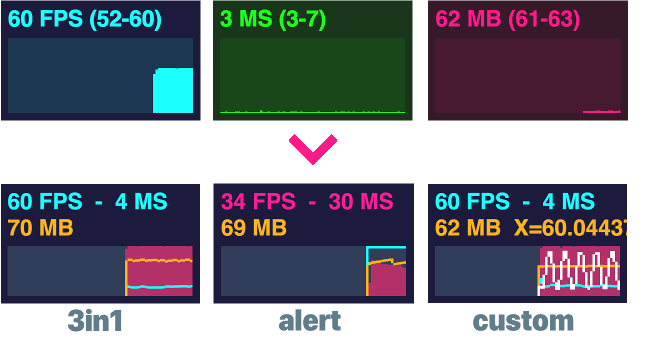
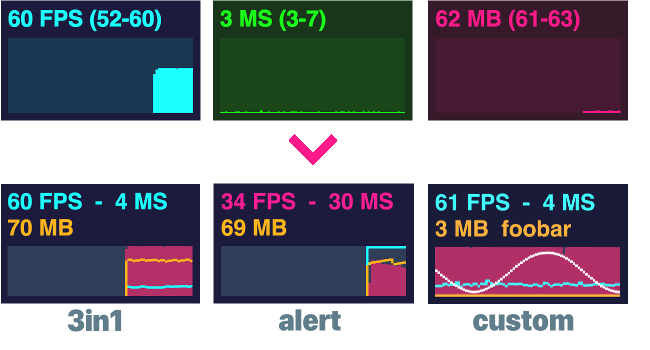
Change argument to object

Changed region(s): [[0.6462, 0.6286, 0.9846, 0.8571], [0.6462, 0.5429, 0.9231, 0.6]]

diff --git a/build/stats.js b/build/stats.js
@@ -9,11 +9,16 @@
  * @author Drecom Co.,Ltd. / http://www.drecom.co.jp/
  */
 
-var Stats = function (maxFPS, maxMem, customGraphConf) {
+var Stats = function Stats(_ref) {
+	var _ref$maxFPS = _ref.maxFPS,
+	    maxFPS = _ref$maxFPS === undefined ? 60 : _ref$maxFPS,
+	    _ref$maxMem = _ref.maxMem,
+	    maxMem = _ref$maxMem === undefined ? 100 : _ref$maxMem,
+	    customGraphConf = _ref.customGraphConf,
+	    _ref$drawInterval = _ref.drawInterval,
+	    drawInterval = _ref$drawInterval === undefined ? 1000 : _ref$drawInterval;
 
-	if(maxFPS == undefined) maxFPS = 60;
-	if(maxMem == undefined) maxMem = 100;
-	
+
 	// Determine whether JavaScript heap can be obtained.
 	var canReadMem = false;
 	if (self.performance && self.performance.memory && self.performance.memory.usedJSHeapSize != self.performance.memory.usedJSHeapSize) {
@@ -21,65 +26,74 @@ var Stats = function (maxFPS, maxMem, customGraphConf) {
 	}
 
 	var margedCustomGraphConf = [];
-	if(canReadMem){
+	if (canReadMem) {
 		margedCustomGraphConf.push({
 			color: '#fa0',
-			max: maxMem,
+			max: maxMem
 		});
 	}
 
-	if(customGraphConf && customGraphConf instanceof Array){
+	if (customGraphConf && customGraphConf instanceof Array) {
 		margedCustomGraphConf = margedCustomGraphConf.concat(customGraphConf);
 	}
 
-	var panel = new FpsPanel( maxFPS, margedCustomGraphConf );
+	var panel = new FpsPanel(maxFPS, margedCustomGraphConf);
 
-	var beginTime = ( performance || Date ).now(), prevTime = beginTime, frames = 0, mem = 0, maxTime = 0;
+	var beginTime = (performance || Date).now(),
+	    prevTime = beginTime,
+	    frames = 0,
+	    mem = 0,
+	    maxTime = 0;
 
 	var customText = "";
 
 	return {
 		dom: panel.dom,
-		getFps: function() { return panel.getFps() },
-		getMs: function() { return panel.getMs() },
-		getMem: function() { return mem },
+		getFps: function getFps() {
+			return panel.getFps();
+		},
+		getMs: function getMs() {
+			return panel.getMs();
+		},
+		getMem: function getMem() {
+			return mem;
+		},
 
-		setText: function (text) {
+		setText: function setText(text) {
 			customText = text;
 		},
 
-		begin: function () {
+		begin: function begin() {
 
-			beginTime = ( performance || Date ).now();
-
+			beginTime = (performance || Date).now();
 		},
 
-		end: function (customGraphValue) {
+		end: function end(customGraphValue) {
 
-			frames ++;
+			frames++;
 
-			var time = ( performance || Date ).now();
+			var time = (performance || Date).now();
 
 			var nowTime = time - beginTime;
-			if(maxTime < nowTime){
+			if (maxTime < nowTime) {
 				maxTime = nowTime;
 			}
 
-			if ( time >= prevTime + 1000 ) {
+			if (time >= prevTime + drawInterval) {
 
 				var margedCustomGraphValue = [];
 				var text = customText;
 
-				if(canReadMem){
+				if (canReadMem) {
 					mem = window.performance.memory.usedJSHeapSize / 1048576;
 					margedCustomGraphValue.push(mem);
 					text = Math.round(mem) + ' MB  ' + customText;
 				}
-				if(customGraphValue && customGraphValue instanceof Array){
+				if (customGraphValue && customGraphValue instanceof Array) {
 					margedCustomGraphValue = margedCustomGraphValue.concat(customGraphValue);
 				}
 
-				panel.update( ( frames * 1000 ) / ( time - prevTime ), maxTime, margedCustomGraphValue, text );
+				panel.update(frames * 1000 / (time - prevTime), maxTime, margedCustomGraphValue, text);
 
 				prevTime = time;
 				frames = 0;
@@ -87,40 +101,41 @@ var Stats = function (maxFPS, maxMem, customGraphConf) {
 			}
 
 			return time;
-
 		},
 
-		update: function (customGraphValue) {
+		update: function update(customGraphValue) {
 
 			beginTime = this.end(customGraphValue);
-
-		},
+		}
 	};
-
 };
 
 // A class that displays passed data in a graph.
-var FpsPanel = function (maxFPS, customGraphConf) {
+var FpsPanel = function FpsPanel(maxFPS, customGraphConf) {
 
 	var MAX_FPS = maxFPS,
-			MAX_MS = 1000 / MAX_FPS,
-			ALERT_MS = 1000 / MAX_FPS * 0.6;
+	    MAX_MS = 1000 / MAX_FPS,
+	    ALERT_MS = 1000 / MAX_FPS * 0.6;
 
-	var PR = Math.round( window.devicePixelRatio || 1 ) * 2;
-	var WIDTH = 80 * PR, HEIGHT = 48 * PR,
-			TEXT_X = 3 * PR, TEXT_Y = 2 * PR,
-			GRAPH_X = 3 * PR, GRAPH_Y = 25 * PR,
-			GRAPH_WIDTH = 74 * PR, GRAPH_HEIGHT = 20 * PR;
+	var PR = Math.round(window.devicePixelRatio || 1) * 2;
+	var WIDTH = 80 * PR,
+	    HEIGHT = 48 * PR,
+	    TEXT_X = 3 * PR,
+	    TEXT_Y = 2 * PR,
+	    GRAPH_X = 3 * PR,
+	    GRAPH_Y = 25 * PR,
+	    GRAPH_WIDTH = 74 * PR,
+	    GRAPH_HEIGHT = 20 * PR;
 	var CUSTOM_TEXT_Y = GRAPH_Y / 2;
 
 	var FRAME_COLOR = '#002',
-			GRAPH_COLOR = '#124',
-			FPS_COLOR = '#a15',
-			MS_COLOR = '#0ff',
-			NORMAL_TEXT_COLOR = '#0ff',
-			ALERT_TEXT_COLOR = '#f08',
-			CUSTOM_TEXT_COLOR = '#fa0';
-	
+	    GRAPH_COLOR = '#124',
+	    FPS_COLOR = '#a15',
+	    MS_COLOR = '#0ff',
+	    NORMAL_TEXT_COLOR = '#0ff',
+	    ALERT_TEXT_COLOR = '#f08',
+	    CUSTOM_TEXT_COLOR = '#fa0';
+
 	var lastFps = 0;
 
 	var lastMs = 0;
@@ -128,42 +143,42 @@ var FpsPanel = function (maxFPS, customGraphConf) {
 
 	var customGraphLength = 0;
 	var customGraphLastY = [];
-	if(customGraphConf && customGraphConf instanceof Array){
+	if (customGraphConf && customGraphConf instanceof Array) {
 		customGraphLength = customGraphConf.length;
 		for (var i = 0; i < customGraphLength; i++) {
 			customGraphLastY.push(GRAPH_HEIGHT);
 		}
 	}
 
-	var container = document.createElement( 'div' );
+	var container = document.createElement('div');
 	container.style.cssText = 'position:fixed;top:0;left:0;opacity:0.9;z-index:10000';
-	var canvas = document.createElement( 'canvas' );
+	var canvas = document.createElement('canvas');
 	canvas.width = WIDTH;
 	canvas.height = HEIGHT;
-	container.appendChild( canvas );
+	container.appendChild(canvas);
 	canvas.style.cssText = 'width:80px;height:48px';
-	var context = canvas.getContext( '2d' );
-	context.font = 'bold ' + ( 9 * PR ) + 'px Helvetica,Arial,sans-serif';
+	var context = canvas.getContext('2d');
+	context.font = 'bold ' + 9 * PR + 'px Helvetica,Arial,sans-serif';
 	context.textBaseline = 'top';
-	
-	context.fillStyle = FRAME_COLOR;
-	context.fillRect( 0, 0, WIDTH, HEIGHT );
-	context.fillStyle = GRAPH_COLOR;
-	context.fillRect( GRAPH_X, GRAPH_Y, GRAPH_WIDTH, GRAPH_HEIGHT );
 
-	var drawLineGraph = function (color, maxValue, newValue, lastY) {
+	context.fillStyle = FRAME_COLOR;
+	context.fillRect(0, 0, WIDTH, HEIGHT);
+	context.fillStyle = GRAPH_COLOR;
+	context.fillRect(GRAPH_X, GRAPH_Y, GRAPH_WIDTH, GRAPH_HEIGHT);
+
+	var drawLineGraph = function drawLineGraph(color, maxValue, newValue, lastY) {
 		context.fillStyle = color;
-		var newY = Math.round( ( 1 - ( newValue / maxValue ) ) * GRAPH_HEIGHT);
-		if(GRAPH_HEIGHT - PR < newY) {
+		var newY = Math.round((1 - newValue / maxValue) * GRAPH_HEIGHT);
+		if (GRAPH_HEIGHT - PR < newY) {
 			newY = GRAPH_HEIGHT - PR;
-		}else if(newY < 0){
+		} else if (newY < 0) {
 			newY = 0;
 		}
 		var head = Math.min(newY, lastY);
 		var bottom = Math.max(newY, lastY);
 		var height = bottom - head;
 		if (height < PR) height = PR;
-		context.fillRect( GRAPH_X + GRAPH_WIDTH - PR, GRAPH_Y + head, PR, height );
+		context.fillRect(GRAPH_X + GRAPH_WIDTH - PR, GRAPH_Y + head, PR, height);
 		return newY;
 	};
 
@@ -171,41 +186,45 @@ var FpsPanel = function (maxFPS, customGraphConf) {
 
 		dom: container,
 
-		getFps: function() { return lastFps },
-		getMs: function() { return lastMs },
-		
-		update: function ( fps, ms, customGraphValue, customText ) {
+		getFps: function getFps() {
+			return lastFps;
+		},
+		getMs: function getMs() {
+			return lastMs;
+		},
+
+		update: function update(fps, ms, customGraphValue, customText) {
 			lastFps = fps;
 			lastMs = ms;
 
 			context.fillStyle = FRAME_COLOR;
-			context.fillRect( 0, 0, WIDTH, GRAPH_Y );
+			context.fillRect(0, 0, WIDTH, GRAPH_Y);
 
-			if(ALERT_MS <= lastMs){
+			if (ALERT_MS <= lastMs) {
 				context.fillStyle = ALERT_TEXT_COLOR;
-			}else{
+			} else {
 				context.fillStyle = NORMAL_TEXT_COLOR;
 			}
-			context.fillText( Math.round(lastFps) + ' FPS  -  ' + Math.round(lastMs) + ' MS', TEXT_X, TEXT_Y );
+			context.fillText(Math.round(lastFps) + ' FPS  -  ' + Math.round(lastMs) + ' MS', TEXT_X, TEXT_Y);
 
-			if(customText){
+			if (customText) {
 				context.fillStyle = CUSTOM_TEXT_COLOR;
-				context.fillText( customText, TEXT_X, CUSTOM_TEXT_Y );
+				context.fillText(customText, TEXT_X, CUSTOM_TEXT_Y);
 			}
-			
-			context.drawImage( canvas, GRAPH_X + PR, GRAPH_Y, GRAPH_WIDTH - PR, GRAPH_HEIGHT, GRAPH_X, GRAPH_Y, GRAPH_WIDTH - PR, GRAPH_HEIGHT );
+
+			context.drawImage(canvas, GRAPH_X + PR, GRAPH_Y, GRAPH_WIDTH - PR, GRAPH_HEIGHT, GRAPH_X, GRAPH_Y, GRAPH_WIDTH - PR, GRAPH_HEIGHT);
 
 			context.fillStyle = GRAPH_COLOR;
-			context.fillRect( GRAPH_X + GRAPH_WIDTH - PR, GRAPH_Y, PR, GRAPH_HEIGHT );
+			context.fillRect(GRAPH_X + GRAPH_WIDTH - PR, GRAPH_Y, PR, GRAPH_HEIGHT);
 
 			context.fillStyle = FPS_COLOR;
-			var nowFpsY = Math.round( ( 1 - ( lastFps / MAX_FPS ) ) * GRAPH_HEIGHT );
-			if(nowFpsY < 0) nowFpsY = 0;
-			context.fillRect( GRAPH_X + GRAPH_WIDTH - PR, GRAPH_Y + nowFpsY, PR, GRAPH_HEIGHT - nowFpsY);
+			var nowFpsY = Math.round((1 - lastFps / MAX_FPS) * GRAPH_HEIGHT);
+			if (nowFpsY < 0) nowFpsY = 0;
+			context.fillRect(GRAPH_X + GRAPH_WIDTH - PR, GRAPH_Y + nowFpsY, PR, GRAPH_HEIGHT - nowFpsY);
 
 			lastMsY = drawLineGraph(MS_COLOR, MAX_MS, lastMs, lastMsY);
 
-			if(customGraphLength){
+			if (customGraphLength) {
 				for (var i = 0; i < customGraphLength; i++) {
 					customGraphLastY[i] = drawLineGraph(customGraphConf[i].color, customGraphConf[i].max, customGraphValue[i], customGraphLastY[i]);
 				}

diff --git a/build/stats.min.js b/build/stats.min.js
@@ -1,2 +1,2 @@
 // @drecom/stats.js - http://github.com/drecom/stats.js
-!function(e,t){"object"==typeof exports&&"undefined"!=typeof module?module.exports=t():"function"==typeof define&&define.amd?define(t):e.Stats=t()}(this,function(){"use strict";var e=function(e,t){var n=e,r=1e3/n,o=1e3/n*.6,i=2*Math.round(window.devicePixelRatio||1),a=80*i,f=48*i,l=3*i,c=2*i,u=3*i,d=25*i,s=74*i,p=20*i,m=d/2,v="#002",h="#124",y=0,x=0,S=p,M=0,g=[];if(t&&t instanceof Array){M=t.length;for(var w=0;w<M;w++)g.push(p)}var R=document.createElement("div");R.style.cssText="position:fixed;top:0;left:0;opacity:0.9;z-index:10000";var T=document.createElement("canvas");T.width=a,T.height=f,R.appendChild(T),T.style.cssText="width:80px;height:48px";var z=T.getContext("2d");z.font="bold "+9*i+"px Helvetica,Arial,sans-serif",z.textBaseline="top",z.fillStyle=v,z.fillRect(0,0,a,f),z.fillStyle=h,z.fillRect(u,d,s,p);var A=function(e,t,n,r){z.fillStyle=e;var o=Math.round((1-n/t)*p);p-i<o?o=p-i:o<0&&(o=0);var a=Math.min(o,r),f=Math.max(o,r)-a;return f<i&&(f=i),z.fillRect(u+s-i,d+a,i,f),o};return{dom:R,getFps:function(){return y},getMs:function(){return x},update:function(e,f,w,R){y=e,x=f,z.fillStyle=v,z.fillRect(0,0,a,d),z.fillStyle=o<=x?"#f08":"#0ff",z.fillText(Math.round(y)+" FPS  -  "+Math.round(x)+" MS",l,c),R&&(z.fillStyle="#fa0",z.fillText(R,l,m)),z.drawImage(T,u+i,d,s-i,p,u,d,s-i,p),z.fillStyle=h,z.fillRect(u+s-i,d,i,p),z.fillStyle="#a15";var F=Math.round((1-y/n)*p);if(F<0&&(F=0),z.fillRect(u+s-i,d+F,i,p-F),S=A("#0ff",r,x,S),M)for(var H=0;H<M;H++)g[H]=A(t[H].color,t[H].max,w[H],g[H])}}};return function(t,n,r){void 0==t&&(t=60),void 0==n&&(n=100);var o=!1;self.performance&&self.performance.memory&&self.performance.memory.usedJSHeapSize!=self.performance.memory.usedJSHeapSize&&(o=!0);var i=[];o&&i.push({color:"#fa0",max:n}),r&&r instanceof Array&&(i=i.concat(r));var a=new e(t,i),f=(performance||Date).now(),l=f,c=0,u=0,d=0,s="";return{dom:a.dom,getFps:function(){return a.getFps()},getMs:function(){return a.getMs()},getMem:function(){return u},setText:function(e){s=e},begin:function(){f=(performance||Date).now()},end:function(e){c++;var t=(performance||Date).now(),n=t-f;if(d<n&&(d=n),t>=l+1e3){var r=[],i=s;o&&(u=window.performance.memory.usedJSHeapSize/1048576,r.push(u),i=Math.round(u)+" MB  "+s),e&&e instanceof Array&&(r=r.concat(e)),a.update(1e3*c/(t-l),d,r,i),l=t,c=0,d=0}return t},update:function(e){f=this.end(e)}}}});
+!function(e,t){"object"==typeof exports&&"undefined"!=typeof module?module.exports=t():"function"==typeof define&&define.amd?define(t):e.Stats=t()}(this,function(){"use strict";var e=function(e,t){var n=e,r=1e3/n,o=1e3/n*.6,a=2*Math.round(window.devicePixelRatio||1),i=80*a,f=48*a,l=3*a,c=2*a,u=3*a,d=25*a,s=74*a,m=20*a,p=d/2,v="#002",h="#124",y=0,x=0,S=m,M=0,g=[];if(t&&t instanceof Array){M=t.length;for(var w=0;w<M;w++)g.push(m)}var R=document.createElement("div");R.style.cssText="position:fixed;top:0;left:0;opacity:0.9;z-index:10000";var F=document.createElement("canvas");F.width=i,F.height=f,R.appendChild(F),F.style.cssText="width:80px;height:48px";var T=F.getContext("2d");T.font="bold "+9*a+"px Helvetica,Arial,sans-serif",T.textBaseline="top",T.fillStyle=v,T.fillRect(0,0,i,f),T.fillStyle=h,T.fillRect(u,d,s,m);var z=function(e,t,n,r){T.fillStyle=e;var o=Math.round((1-n/t)*m);m-a<o?o=m-a:o<0&&(o=0);var i=Math.min(o,r),f=Math.max(o,r)-i;return f<a&&(f=a),T.fillRect(u+s-a,d+i,a,f),o};return{dom:R,getFps:function(){return y},getMs:function(){return x},update:function(e,f,w,R){y=e,x=f,T.fillStyle=v,T.fillRect(0,0,i,d),T.fillStyle=o<=x?"#f08":"#0ff",T.fillText(Math.round(y)+" FPS  -  "+Math.round(x)+" MS",l,c),R&&(T.fillStyle="#fa0",T.fillText(R,l,p)),T.drawImage(F,u+a,d,s-a,m,u,d,s-a,m),T.fillStyle=h,T.fillRect(u+s-a,d,a,m),T.fillStyle="#a15";var A=Math.round((1-y/n)*m);if(A<0&&(A=0),T.fillRect(u+s-a,d+A,a,m-A),S=z("#0ff",r,x,S),M)for(var H=0;H<M;H++)g[H]=z(t[H].color,t[H].max,w[H],g[H])}}};return function(t){var n=t.maxFPS,r=void 0===n?60:n,o=t.maxMem,a=void 0===o?100:o,i=t.customGraphConf,f=t.drawInterval,l=void 0===f?1e3:f,c=!1;self.performance&&self.performance.memory&&self.performance.memory.usedJSHeapSize!=self.performance.memory.usedJSHeapSize&&(c=!0);var u=[];c&&u.push({color:"#fa0",max:a}),i&&i instanceof Array&&(u=u.concat(i));var d=new e(r,u),s=(performance||Date).now(),m=s,p=0,v=0,h=0,y="";return{dom:d.dom,getFps:function(){return d.getFps()},getMs:function(){return d.getMs()},getMem:function(){return v},setText:function(e){y=e},begin:function(){s=(performance||Date).now()},end:function(e){p++;var t=(performance||Date).now(),n=t-s;if(h<n&&(h=n),t>=m+l){var r=[],o=y;c&&(v=window.performance.memory.usedJSHeapSize/1048576,r.push(v),o=Math.round(v)+" MB  "+y),e&&e instanceof Array&&(r=r.concat(e)),d.update(1e3*p/(t-m),h,r,o),m=t,p=0,h=0}return t},update:function(e){s=this.end(e)}}}});

diff --git a/src/Stats.js b/src/Stats.js
@@ -3,11 +3,8 @@
  * @author Drecom Co.,Ltd. / http://www.drecom.co.jp/
  */
 
-var Stats = function (maxFPS, maxMem, customGraphConf) {
+var Stats = function ({maxFPS = 60, maxMem = 100, customGraphConf, drawInterval = 1000 }) {
 
-	if(maxFPS == undefined) maxFPS = 60;
-	if(maxMem == undefined) maxMem = 100;
-	
 	// Determine whether JavaScript heap can be obtained.
 	var canReadMem = false;
 	if (self.performance && self.performance.memory && self.performance.memory.usedJSHeapSize != self.performance.memory.usedJSHeapSize) {
@@ -59,7 +56,7 @@ var Stats = function (maxFPS, maxMem, customGraphConf) {
 				maxTime = nowTime;
 			}
 
-			if ( time >= prevTime + 1000 ) {
+			if ( time >= prevTime + drawInterval ) {
 
 				var margedCustomGraphValue = [];
 				var text = customText;

diff --git a/examples/custom.html b/examples/custom.html
@@ -20,7 +20,7 @@
 					max: 500,
 				},
 			];
-			var stats = new Stats(60, 100, customGraph);
+			var stats = new Stats({maxFPS:60, maxMem:100, customGraphConf:customGraph, drawInterval:100});
 			document.body.appendChild( stats.dom );
 
 			var canvas = document.createElement( 'canvas' );
@@ -51,7 +51,7 @@
 					context.fill();
 				}
 
-				stats.setText('X=' + x);
+				stats.setText('foobar');
 				stats.end([x]);
 
 				requestAnimationFrame( animate );

diff --git a/examples/stress.html b/examples/stress.html
@@ -18,7 +18,7 @@
 
 			for ( var i = 0; i < 500; i ++ ) {
 
-				var stats = new Stats(60, 100);
+				var stats = new Stats({maxFPS:60, maxMem:100});
 				stats.dom.style.position = 'relative';
 				stats.dom.style.float = 'left';
 				document.body.appendChild( stats.dom );

diff --git a/examples/basic.html b/examples/basic.html
@@ -14,7 +14,7 @@
 		<script src="../build/stats.min.js"></script>
 		<script>
 
-			var stats = new Stats(60, 10);
+			var stats = new Stats({maxFPS:60, maxMem:10});
 			document.body.appendChild( stats.dom );
 
 			var canvas = document.createElement( 'canvas' );

diff --git a/README.md b/README.md
@@ -13,7 +13,7 @@ Combined all the stats.js monitors into one.
 ### Usage ###
 
 ```javascript
-var stats = new Stats(60, 100); // FPS:60 MaxJSHeap:100MB
+var stats = new Stats({maxFPS:60, maxMem:100}); // Set upper limit of graph
 document.body.appendChild( stats.dom );
 
 function animate() {
